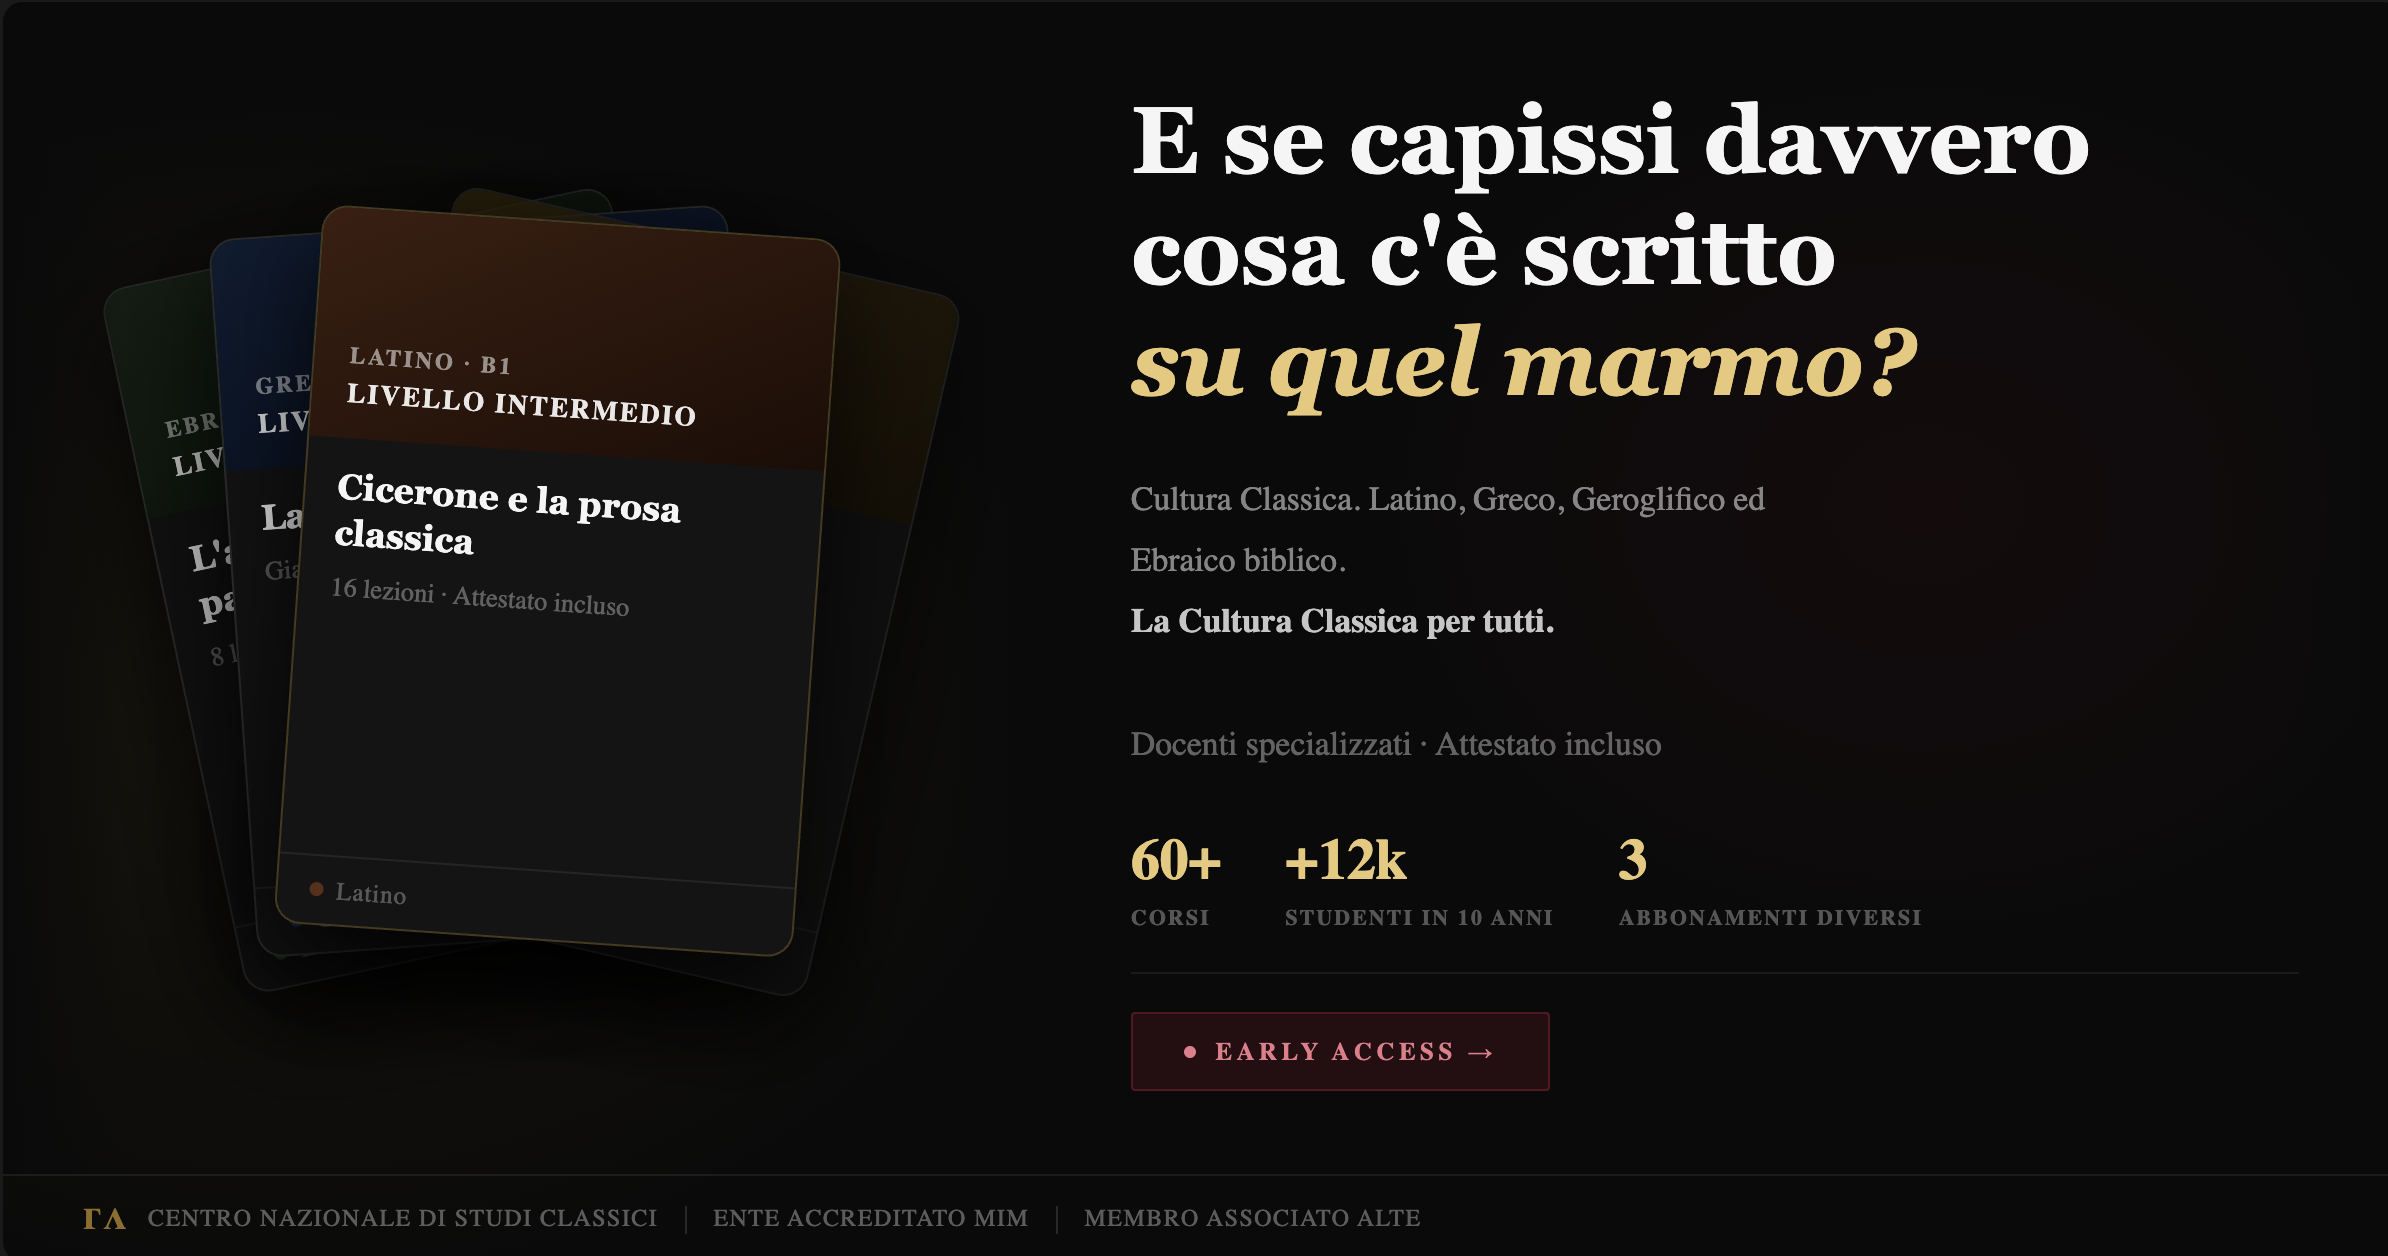
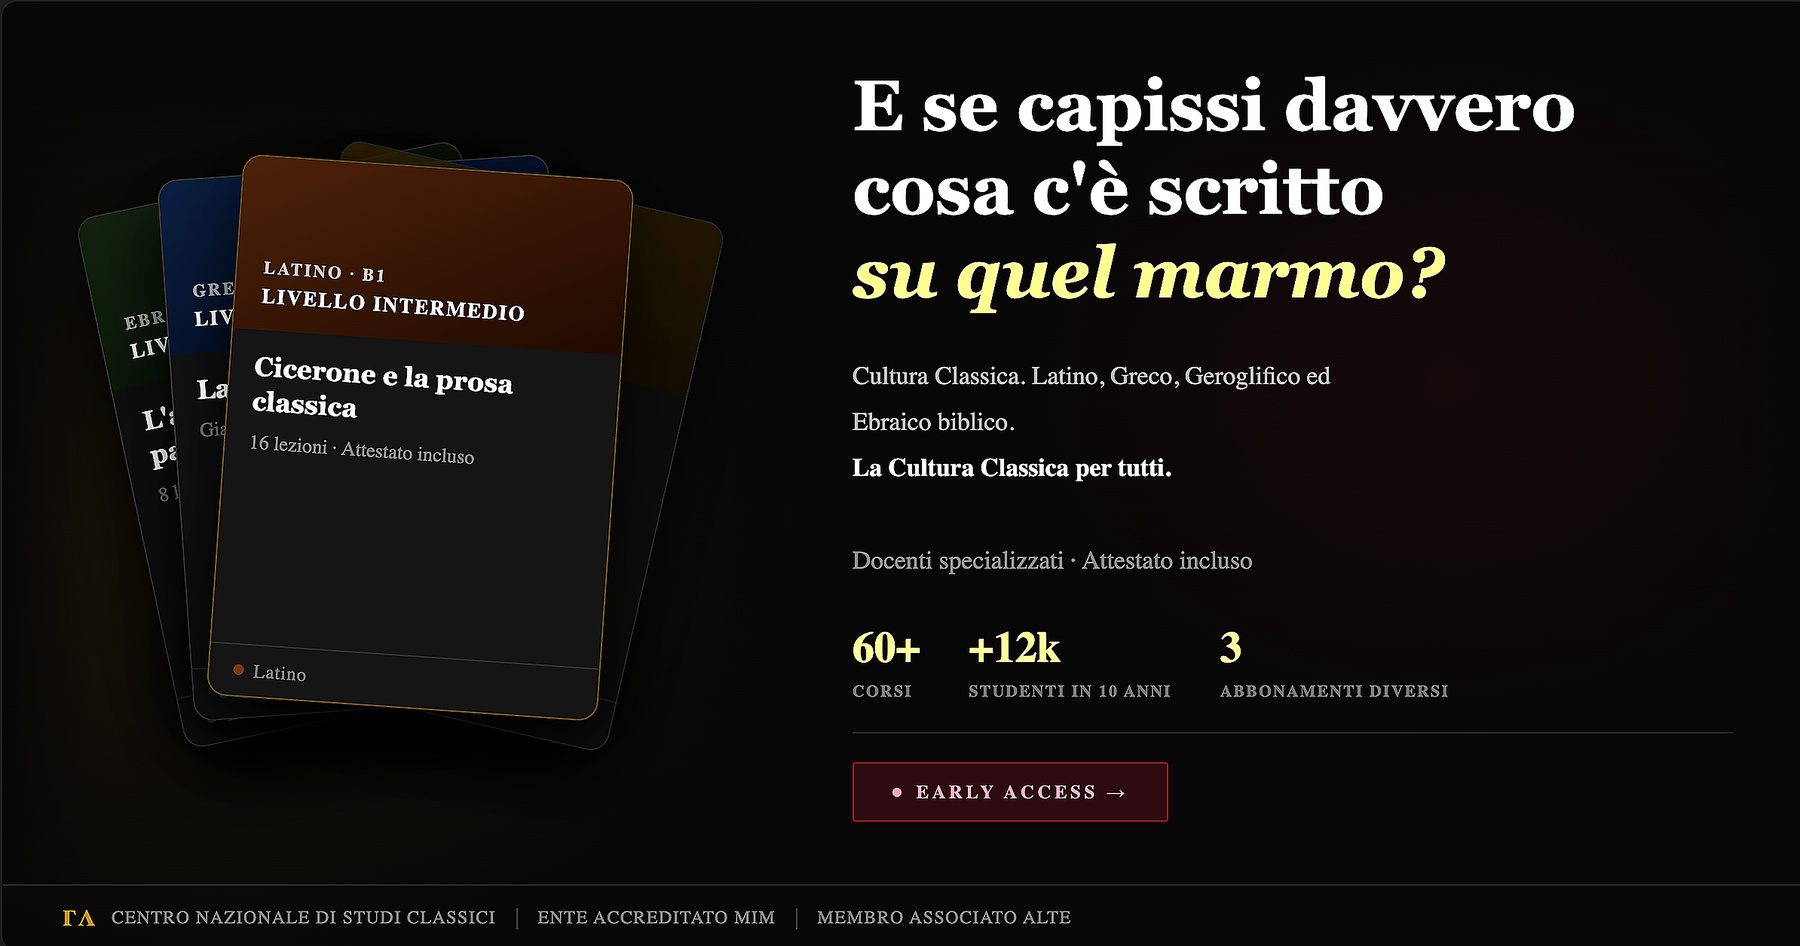
ok

diff --git a/public/index.html b/public/index.html
@@ -791,36 +791,40 @@
       border-bottom: 1px solid rgba(255,255,255,.08);
     }
     .faq-item:first-of-type { border-top: 1px solid rgba(255,255,255,.08); }
-    .faq-item summary {
-      list-style: none;
+    .faq-q {
       display: flex;
       justify-content: space-between;
       align-items: center;
-      gap: 1rem;
+      width: 100%;
+      background: none;
+      border: none;
+      cursor: pointer;
       padding: 1.2rem 0;
       font-size: .95rem;
       font-weight: 500;
       color: var(--text-main);
-      cursor: pointer;
-      user-select: none;
+      text-align: left;
     }
-    .faq-item summary::-webkit-details-marker { display: none; }
-    .faq-item summary::after {
-      content: '+';
+    .faq-icon {
       color: var(--gold);
       font-size: 1.4rem;
       font-weight: 300;
-      line-height: 1;
-      flex-shrink: 0;
       transition: transform .2s;
+      display: inline-block;
+      flex-shrink: 0;
     }
-    .faq-item[open] summary::after { transform: rotate(45deg); }
+    .faq-item.open .faq-icon { transform: rotate(45deg); }
+    .faq-a {
+      max-height: 0;
+      overflow: hidden;
+      transition: max-height .3s ease;
+    }
+    .faq-item.open .faq-a { max-height: 600px; }
     .faq-answer {
       font-size: .88rem;
       color: rgba(245,245,245,.62);
       line-height: 1.75;
       padding-bottom: 1.2rem;
-      max-width: 620px;
     }
     .faq-answer strong { color: rgba(245,245,245,.85); font-weight: 500; }
 
@@ -1291,7 +1295,8 @@
     <div class="pricing-veil-box">
       <p class="pricing-veil-tag">Apertura iscrizioni</p>
       <h3 class="pricing-veil-title">Stiamo aprendo le porte.<br>Vuoi essere tra i primi?</h3>
-      <p class="pricing-veil-sub">Lascia la tua email: ti avvisiamo non appena puoi abbonarti. Nessuno spam.</p>
+      <p class="pricing-veil-sub">Lascia la tua email: ti avvisiamo non appena puoi abbonarti. Niente spam.</p>
+      <p class="pricing-veil-spots" id="veil-spots" style="font-size:.78rem;color:var(--gold);margin-bottom:1.2rem;min-height:1.2em;"></p>
 
       <!-- Step 1: email -->
       <form class="pricing-veil-form" id="veil-form-step1">
@@ -1633,40 +1638,55 @@
   <div class="faq-inner">
     <h2 class="faq-heading">Domande <em>frequenti</em></h2>
 
-    <details class="faq-item">
-      <summary>Cosa include il portale?</summary>
-      <p class="faq-answer">
-        Videocorsi strutturati di Latino, Greco Antico, Egiziano Geroglifico ed Ebraico Biblico — dal livello base al testo autentico. Ogni corso è tenuto da docenti e ricercatori specializzati. Trovi anche webinar tematici, materiali di approfondimento, test autocorrettivi e <strong>Magistro</strong>, il tutor AI che ti affianca lezione per lezione. Il catalogo cresce ogni mese.
-      </p>
-    </details>
+    <div class="faq-item">
+      <button class="faq-q" type="button" aria-expanded="false">
+        Cosa include il portale?
+        <span class="faq-icon" aria-hidden="true">+</span>
+      </button>
+      <div class="faq-a" role="region">
+        <p class="faq-answer">Videocorsi strutturati di Latino, Greco Antico, Egiziano Geroglifico ed Ebraico Biblico — dal livello base al testo autentico. Ogni corso è tenuto da docenti e ricercatori specializzati. Trovi anche webinar tematici, materiali di approfondimento, test autocorrettivi e <strong>Magistro</strong>, il tutor AI che ti affianca lezione per lezione. Il catalogo cresce ogni mese.</p>
+      </div>
+    </div>
 
-    <details class="faq-item">
-      <summary>Sono un docente, posso pagare con il Bonus Docenti?</summary>
-      <p class="faq-answer">
-        Sì, nel piano <strong>Accademia Annuale</strong>. Seleziona "Carta del Docente" al momento dell'iscrizione: riceverai via email le istruzioni per generare il buono sul portale del Ministero (sezione <em>Formazione → Enti accreditati ai sensi della direttiva 170/2016</em>) e inviarcelo a <strong>[email redacted]</strong>. Attiviamo l'abbonamento entro 24 ore lavorative dalla ricezione del PDF.
-      </p>
-    </details>
+    <div class="faq-item">
+      <button class="faq-q" type="button" aria-expanded="false">
+        Sono un docente, posso pagare con il Bonus Docenti?
+        <span class="faq-icon" aria-hidden="true">+</span>
+      </button>
+      <div class="faq-a" role="region">
+        <p class="faq-answer">Sì, nel piano <strong>Accademia Annuale</strong>. Seleziona "Carta del Docente" al momento dell'iscrizione: riceverai via email le istruzioni per generare il buono sul portale del Ministero (sezione <em>Formazione → Enti accreditati ai sensi della direttiva 170/2016</em>) e inviarcelo a <strong>[email redacted]</strong>. Attiviamo l'abbonamento entro 24 ore lavorative dalla ricezione del PDF.</p>
+      </div>
+    </div>
 
-    <details class="faq-item">
-      <summary>I corsi rilasciano un attestato?</summary>
-      <p class="faq-answer">
-        Sì. Al completamento di ogni corso ricevi un <strong>attestato digitale firmato dal docente</strong>, con codice univoco verificabile online. È utile per il portfolio accademico e per la formazione continua. Nel piano Accademia, i corsi di formazione docenti sono validi anche ai fini dell'accredito MIM.
-      </p>
-    </details>
+    <div class="faq-item">
+      <button class="faq-q" type="button" aria-expanded="false">
+        I corsi rilasciano un attestato?
+        <span class="faq-icon" aria-hidden="true">+</span>
+      </button>
+      <div class="faq-a" role="region">
+        <p class="faq-answer">Sì. Al completamento di ogni corso ricevi un <strong>attestato digitale firmato dal docente</strong>, con codice univoco verificabile online. È utile per il portfolio accademico e per la formazione continua. Nel piano Accademia, i corsi di formazione docenti sono validi anche ai fini dell'accredito MIM.</p>
+      </div>
+    </div>
 
-    <details class="faq-item">
-      <summary>Posso disdire l'abbonamento?</summary>
-      <p class="faq-answer">
-        Sì, in qualsiasi momento, direttamente dal tuo profilo — senza moduli da compilare né email da mandare. L'accesso resta attivo fino alla fine del periodo già pagato. Nessun addebito successivo.
-      </p>
-    </details>
+    <div class="faq-item">
+      <button class="faq-q" type="button" aria-expanded="false">
+        Posso disdire l'abbonamento?
+        <span class="faq-icon" aria-hidden="true">+</span>
+      </button>
+      <div class="faq-a" role="region">
+        <p class="faq-answer">Sì, in qualsiasi momento, direttamente dal tuo profilo — senza moduli da compilare né email da mandare. L'accesso resta attivo fino alla fine del periodo già pagato. Nessun addebito successivo.</p>
+      </div>
+    </div>
 
-    <details class="faq-item">
-      <summary>I corsi danno punteggio per le graduatorie scolastiche?</summary>
-      <p class="faq-answer">
-        No, e non è un'omissione. È una scelta consapevole. Crediamo che la formazione abbia valore per quello che insegna, non per il punteggio che assegna. In un panorama dove molti enti vendono crediti più che conoscenza, abbiamo preferito starne fuori. Chi si iscrive lo fa perché vuole davvero imparare le lingue classiche — e questo, per noi, è già tutto.
-      </p>
-    </details>
+    <div class="faq-item">
+      <button class="faq-q" type="button" aria-expanded="false">
+        I corsi danno punteggio per le graduatorie scolastiche?
+        <span class="faq-icon" aria-hidden="true">+</span>
+      </button>
+      <div class="faq-a" role="region">
+        <p class="faq-answer">No, e non è un'omissione. È una scelta consapevole. Crediamo che la formazione abbia valore per quello che insegna, non per il punteggio che assegna. In un panorama dove molti enti vendono crediti più che conoscenza, abbiamo preferito starne fuori. Chi si iscrive lo fa perché vuole davvero imparare le lingue classiche — e questo, per noi, è già tutto.</p>
+      </div>
+    </div>
 
   </div>
 </section>
@@ -1852,6 +1872,22 @@ tabAnnual.addEventListener('click',  () => { if (!annual) { annual = true;  appl
 
   if (!form1) return;
 
+  // Carica il counter posti
+  const spotsEl = document.getElementById('veil-spots');
+  function loadSpots() {
+    if (!spotsEl) return;
+    fetch('/api/early-access-count')
+      .then(r => r.json())
+      .then(d => {
+        if (typeof d.remaining === 'number') {
+          spotsEl.textContent = `Rimasti ${d.remaining} posti su ${d.total}`;
+        }
+      })
+      .catch(() => {});
+  }
+  loadSpots();
+  setInterval(loadSpots, 30000);
+
   form1.addEventListener('submit', async e => {
     e.preventDefault();
     const email = document.getElementById('veil-email').value.trim();
@@ -1913,6 +1949,14 @@ document.querySelectorAll('a[href^="#"]').forEach(a => {
         target.scrollIntoView({ behavior: 'smooth', block: 'start' });
       }
     } catch (_) { /* selettore non valido — ignora */ }
+  });
+});
+
+document.querySelectorAll('.faq-item').forEach(item => {
+  const btn = item.querySelector('.faq-q');
+  btn.addEventListener('click', () => {
+    const isOpen = item.classList.toggle('open');
+    btn.setAttribute('aria-expanded', isOpen);
   });
 });
 </script>

diff --git a/public/early-access.html b/public/early-access.html
@@ -455,36 +455,40 @@
       border-bottom: 1px solid rgba(255,255,255,.08);
     }
     .faq-item:first-of-type { border-top: 1px solid rgba(255,255,255,.08); }
-    .faq-item summary {
-      list-style: none;
+    .faq-q {
       display: flex;
       justify-content: space-between;
       align-items: center;
-      gap: 1rem;
+      width: 100%;
+      background: none;
+      border: none;
+      cursor: pointer;
       padding: 1.2rem 0;
       font-size: .95rem;
       font-weight: 500;
       color: var(--text);
-      cursor: pointer;
-      user-select: none;
+      text-align: left;
     }
-    .faq-item summary::-webkit-details-marker { display: none; }
-    .faq-item summary::after {
-      content: '+';
+    .faq-icon {
       color: var(--gold);
       font-size: 1.4rem;
       font-weight: 300;
-      line-height: 1;
-      flex-shrink: 0;
       transition: transform .2s;
+      display: inline-block;
+      flex-shrink: 0;
     }
-    .faq-item[open] summary::after { transform: rotate(45deg); }
+    .faq-item.open .faq-icon { transform: rotate(45deg); }
+    .faq-a {
+      max-height: 0;
+      overflow: hidden;
+      transition: max-height .3s ease;
+    }
+    .faq-item.open .faq-a { max-height: 600px; }
     .faq-answer {
       font-size: .88rem;
       color: rgba(245,245,245,.62);
       line-height: 1.75;
       padding-bottom: 1.2rem;
-      max-width: 620px;
     }
     .faq-answer strong { color: rgba(245,245,245,.85); font-weight: 500; }
 
@@ -685,40 +689,55 @@
     <div class="faq-inner">
       <h2 class="faq-heading">Domande <em>frequenti</em></h2>
 
-      <details class="faq-item">
-        <summary>Cosa include il portale?</summary>
-        <p class="faq-answer">
-          Videocorsi strutturati di Latino, Greco Antico, Egiziano Geroglifico ed Ebraico Biblico — dal livello base al testo autentico. Ogni corso è tenuto da docenti e ricercatori specializzati. Trovi anche webinar tematici, materiali di approfondimento, test autocorrettivi e <strong>Magistro</strong>, il tutor AI che ti affianca lezione per lezione. Il catalogo cresce ogni mese.
-        </p>
-      </details>
+      <div class="faq-item">
+        <button class="faq-q" type="button" aria-expanded="false">
+          Cosa include il portale?
+          <span class="faq-icon" aria-hidden="true">+</span>
+        </button>
+        <div class="faq-a" role="region">
+          <p class="faq-answer">Videocorsi strutturati di Latino, Greco Antico, Egiziano Geroglifico ed Ebraico Biblico — dal livello base al testo autentico. Ogni corso è tenuto da docenti e ricercatori specializzati. Trovi anche webinar tematici, materiali di approfondimento, test autocorrettivi e <strong>Magistro</strong>, il tutor AI che ti affianca lezione per lezione. Il catalogo cresce ogni mese.</p>
+        </div>
+      </div>
 
-      <details class="faq-item">
-        <summary>Sono un docente, posso pagare con il Bonus Docenti?</summary>
-        <p class="faq-answer">
-          Sì, nel piano <strong>Accademia Annuale</strong>. Seleziona "Carta del Docente" al momento dell'iscrizione: riceverai via email le istruzioni per generare il buono sul portale del Ministero (sezione <em>Formazione → Enti accreditati ai sensi della direttiva 170/2016</em>) e inviarcelo a <strong>[email redacted]</strong>. Attiviamo l'abbonamento entro 24 ore lavorative dalla ricezione del PDF.
-        </p>
-      </details>
+      <div class="faq-item">
+        <button class="faq-q" type="button" aria-expanded="false">
+          Sono un docente, posso pagare con il Bonus Docenti?
+          <span class="faq-icon" aria-hidden="true">+</span>
+        </button>
+        <div class="faq-a" role="region">
+          <p class="faq-answer">Sì, nel piano <strong>Accademia Annuale</strong>. Seleziona "Carta del Docente" al momento dell'iscrizione: riceverai via email le istruzioni per generare il buono sul portale del Ministero (sezione <em>Formazione → Enti accreditati ai sensi della direttiva 170/2016</em>) e inviarcelo a <strong>[email redacted]</strong>. Attiviamo l'abbonamento entro 24 ore lavorative dalla ricezione del PDF.</p>
+        </div>
+      </div>
 
-      <details class="faq-item">
-        <summary>I corsi rilasciano un attestato?</summary>
-        <p class="faq-answer">
-          Sì. Al completamento di ogni corso ricevi un <strong>attestato digitale firmato dal docente</strong>, con codice univoco verificabile online. È utile per il portfolio accademico e per la formazione continua. Nel piano Accademia, i corsi di formazione docenti sono validi anche ai fini dell'accredito MIM.
-        </p>
-      </details>
+      <div class="faq-item">
+        <button class="faq-q" type="button" aria-expanded="false">
+          I corsi rilasciano un attestato?
+          <span class="faq-icon" aria-hidden="true">+</span>
+        </button>
+        <div class="faq-a" role="region">
+          <p class="faq-answer">Sì. Al completamento di ogni corso ricevi un <strong>attestato digitale firmato dal docente</strong>, con codice univoco verificabile online. È utile per il portfolio accademico e per la formazione continua. Nel piano Accademia, i corsi di formazione docenti sono validi anche ai fini dell'accredito MIM.</p>
+        </div>
+      </div>
 
-      <details class="faq-item">
-        <summary>Posso disdire l'abbonamento?</summary>
-        <p class="faq-answer">
-          Sì, in qualsiasi momento, direttamente dal tuo profilo — senza moduli da compilare né email da mandare. L'accesso resta attivo fino alla fine del periodo già pagato. Nessun addebito successivo.
-        </p>
-      </details>
+      <div class="faq-item">
+        <button class="faq-q" type="button" aria-expanded="false">
+          Posso disdire l'abbonamento?
+          <span class="faq-icon" aria-hidden="true">+</span>
+        </button>
+        <div class="faq-a" role="region">
+          <p class="faq-answer">Sì, in qualsiasi momento, direttamente dal tuo profilo — senza moduli da compilare né email da mandare. L'accesso resta attivo fino alla fine del periodo già pagato. Nessun addebito successivo.</p>
+        </div>
+      </div>
 
-      <details class="faq-item">
-        <summary>I corsi danno punteggio per le graduatorie scolastiche?</summary>
-        <p class="faq-answer">
-          No, e non è un'omissione. È una scelta consapevole. Crediamo che la formazione abbia valore per quello che insegna, non per il punteggio che assegna. In un panorama dove molti enti vendono crediti più che conoscenza, abbiamo preferito starne fuori. Chi si iscrive lo fa perché vuole davvero imparare le lingue classiche — e questo, per noi, è già tutto.
-        </p>
-      </details>
+      <div class="faq-item">
+        <button class="faq-q" type="button" aria-expanded="false">
+          I corsi danno punteggio per le graduatorie scolastiche?
+          <span class="faq-icon" aria-hidden="true">+</span>
+        </button>
+        <div class="faq-a" role="region">
+          <p class="faq-answer">No, e non è un'omissione. È una scelta consapevole. Crediamo che la formazione abbia valore per quello che insegna, non per il punteggio che assegna. In un panorama dove molti enti vendono crediti più che conoscenza, abbiamo preferito starne fuori. Chi si iscrive lo fa perché vuole davvero imparare le lingue classiche — e questo, per noi, è già tutto.</p>
+        </div>
+      </div>
 
     </div>
   </section>
@@ -765,6 +784,7 @@
     }
 
     loadSpotsCounter();
+    setInterval(loadSpotsCounter, 30000);
 
     // ── Helper errore ────────────────────────────────────────
     function showError(msg) {
@@ -882,6 +902,14 @@
     });
     document.getElementById('code-input').addEventListener('keydown', e => {
       if (e.key === 'Enter') verifyCode();
+    });
+
+    document.querySelectorAll('.faq-item').forEach(item => {
+      const btn = item.querySelector('.faq-q');
+      btn.addEventListener('click', () => {
+        const isOpen = item.classList.toggle('open');
+        btn.setAttribute('aria-expanded', isOpen);
+      });
     });
 
     // ── Billing toggle ───────────────────────────────────────